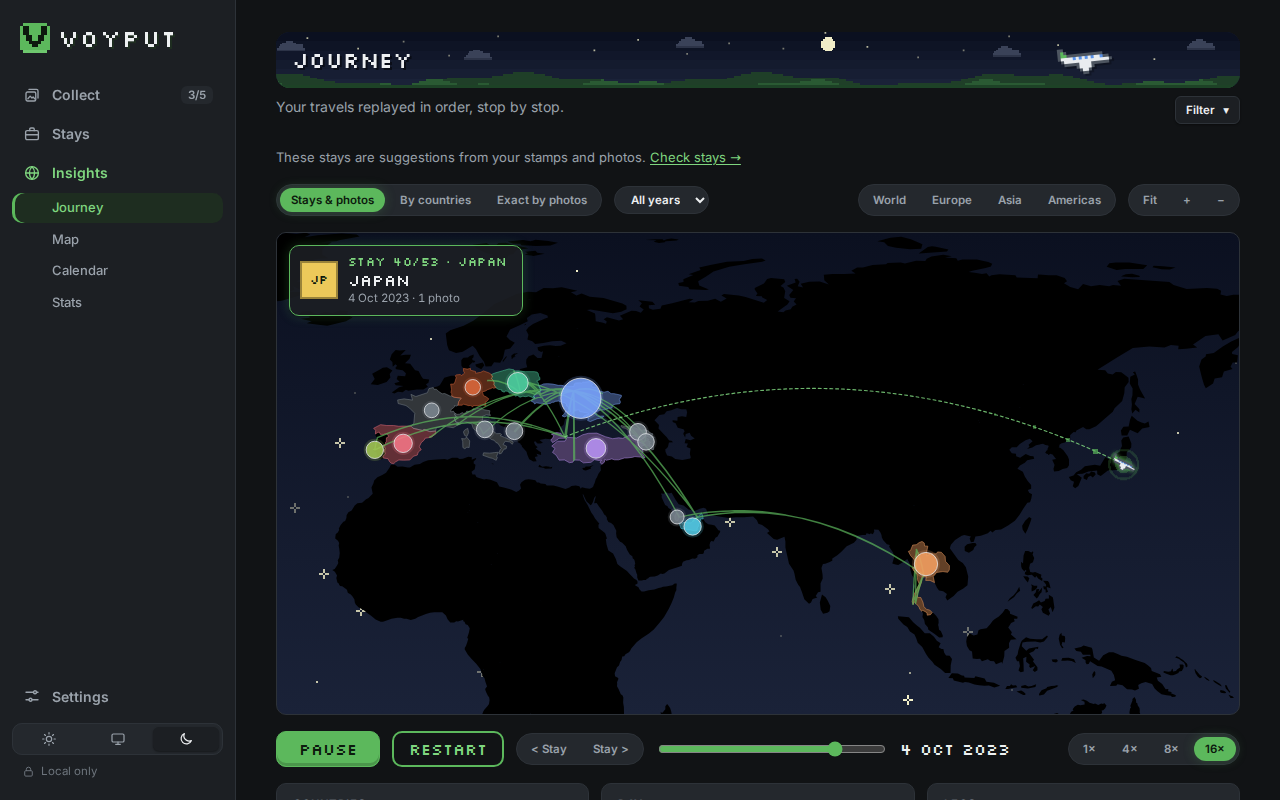
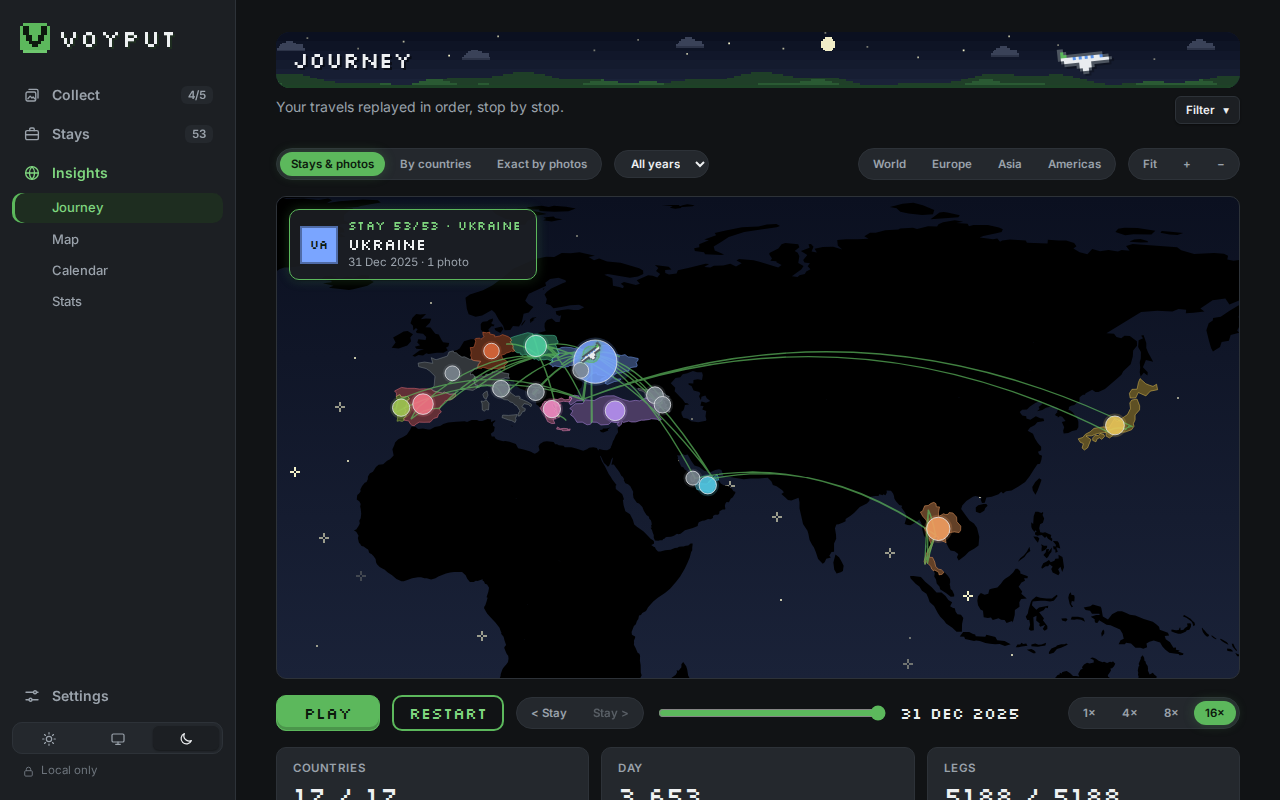
docs(readme): a new gif of the whole flow, from the export command to the journey

diff --git a/README.md b/README.md
@@ -1,6 +1,6 @@
 # voyput
 
-![voyput: passport pages and photo locations become stays, a map and a replayed journey](docs/media/voyput.gif)
+![voyput: copy the export command, import photo locations, approve stays, add passport pages, review a stamp, replay the journey](docs/media/voyput.gif)
 
 Passport stamps + iPhone photo locations → your travel history. Bring your own key. Runs in browser. Data stays in this browser, except page images and AI check details, which go only to the AI you pick.
 
